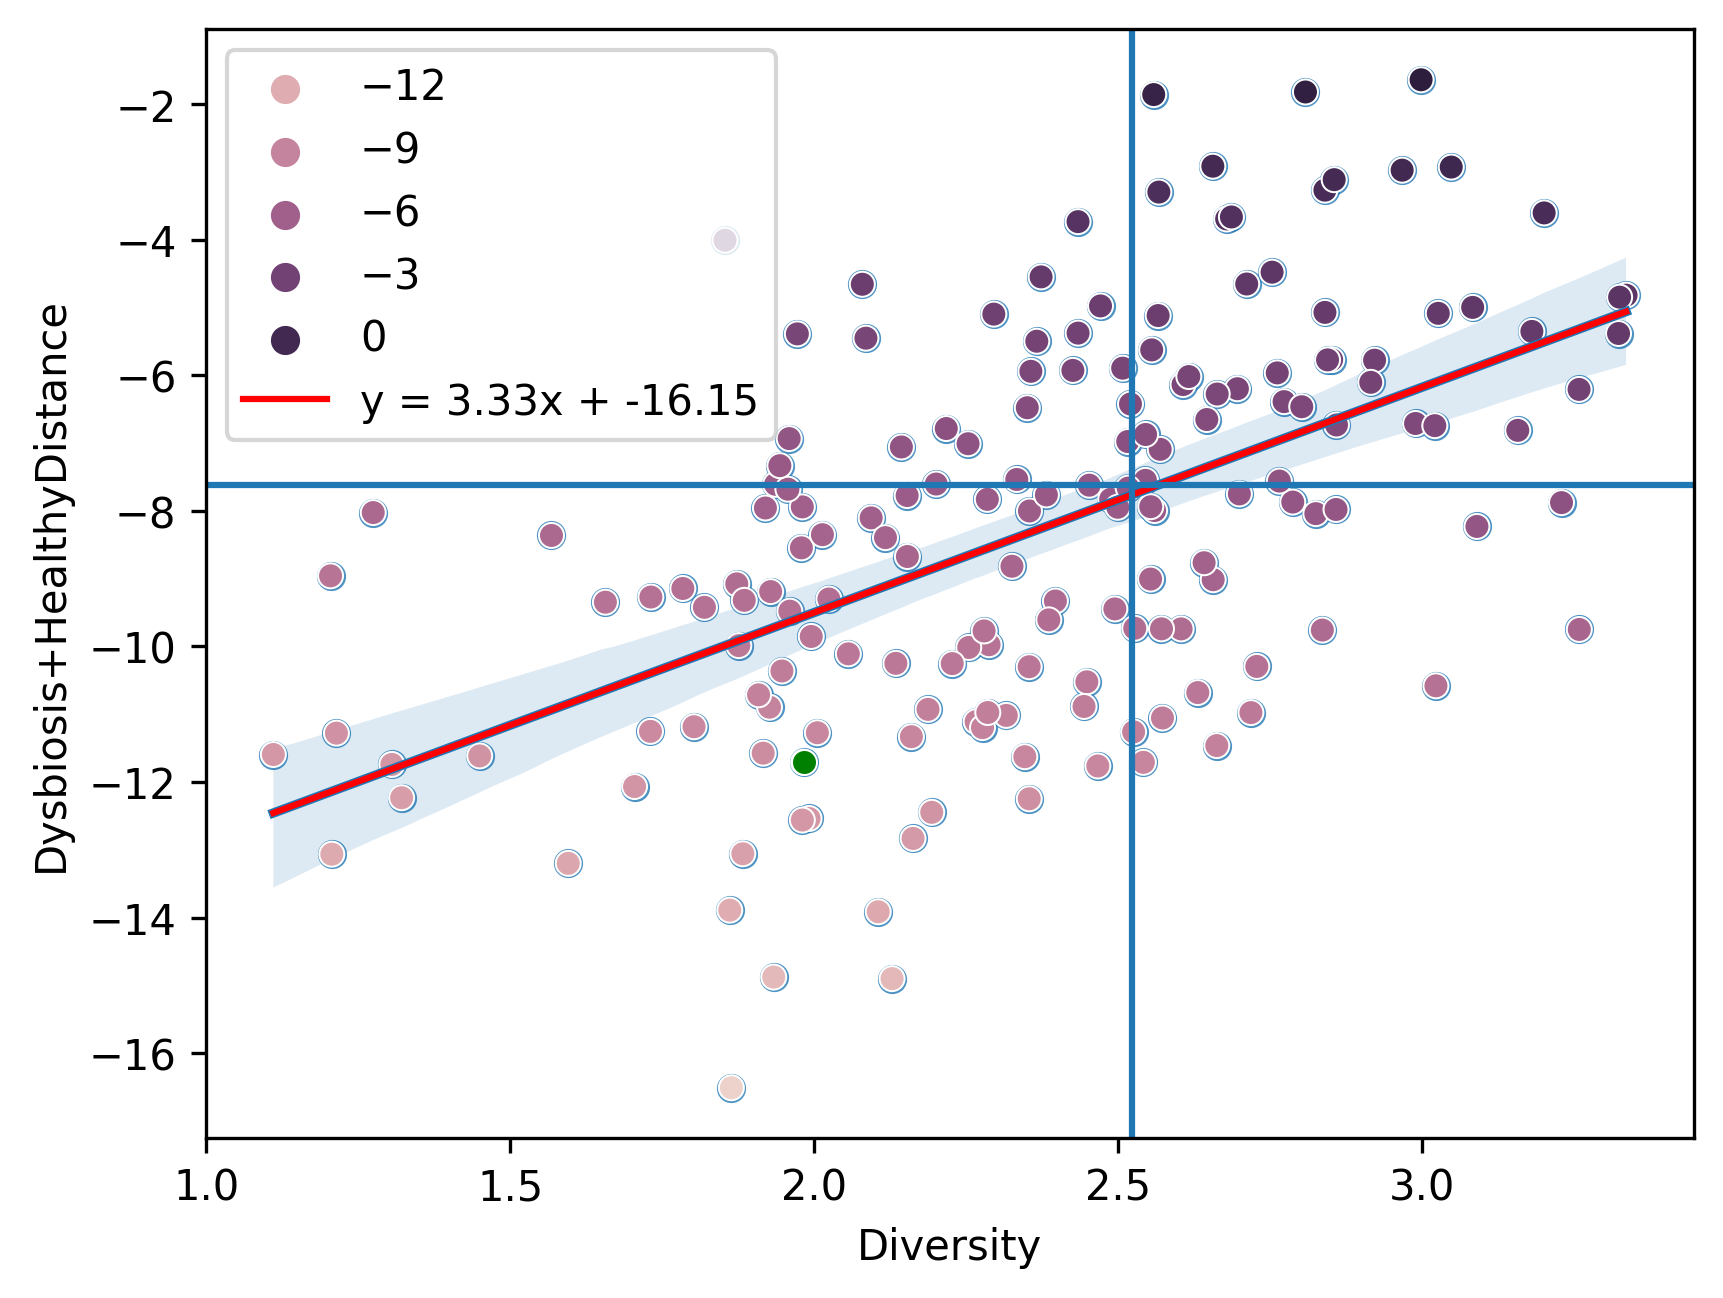
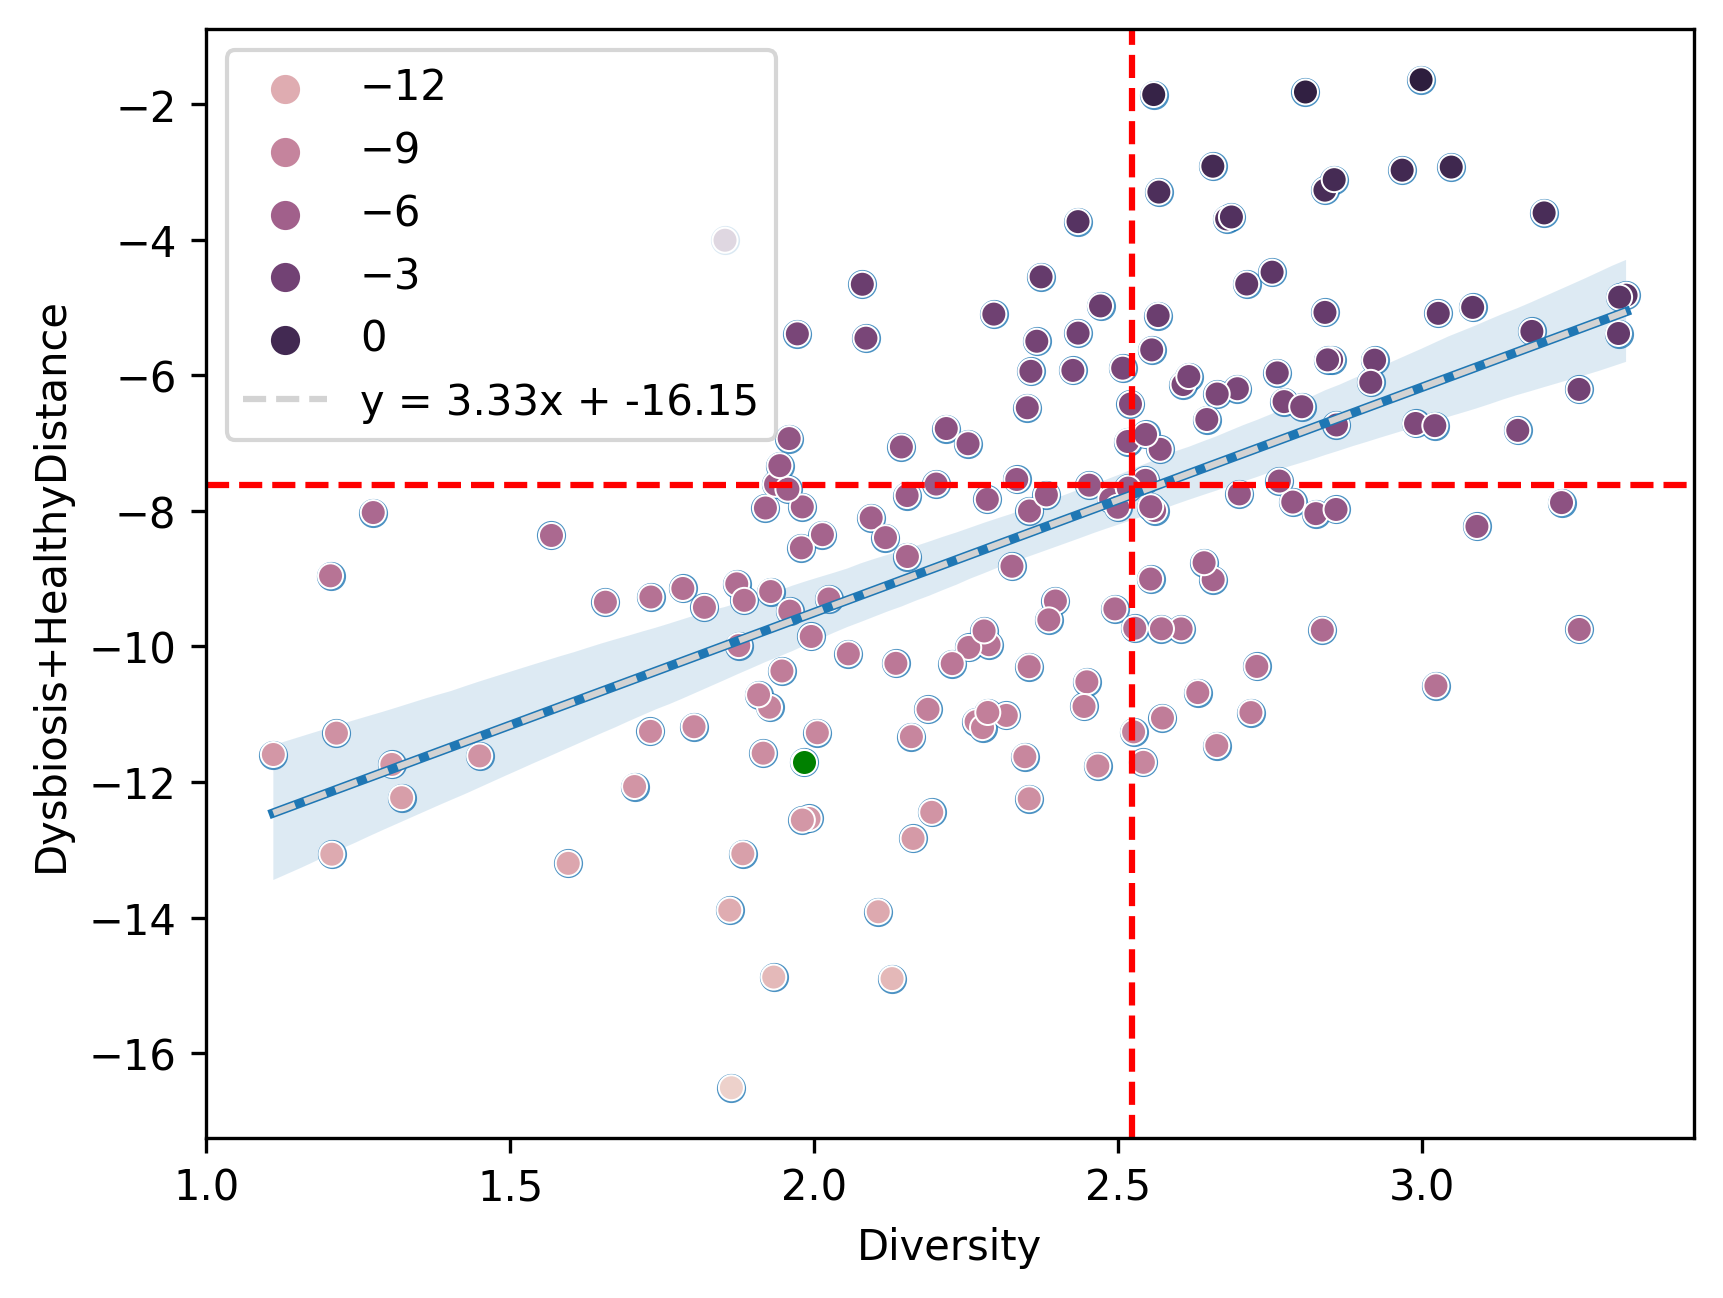
Update the scatter plot - line

diff --git a/comp_percentile_rank_forRPA.py b/comp_percentile_rank_forRPA.py
@@ -427,7 +427,7 @@ class CompAnimalDisease:
             # add new points to the scatter plot
             sns.scatterplot(x=self.df_mrs['Diversity'], y=(self.df_mrs['Dysbiosis'] + self.df_mrs['HealthyDistance']), data=self.df_mrs, color='g')            
             
-            plt.plot(x_vals, y_vals, '-', color='red', label=f'y = {slope:.2f}x + {intercept:.2f}')
+            plt.plot(x_vals, y_vals, '--', color='lightgray', label=f'y = {slope:.2f}x + {intercept:.2f}')
             plt.xlabel('Diversity')
             plt.ylabel('Dysbiosis+HealthyDistance')
             plt.legend()
@@ -440,8 +440,8 @@ class CompAnimalDisease:
                 self.li_x_quartile = list(self.df_mrs_db['Diversity'].quantile([0.6]))
                 self.li_y_quartile = list((self.df_mrs_db['Dysbiosis'] + self.df_mrs_db['HealthyDistance']).quantile([0.6]))
                          
-            plt.axhline(y=self.li_y_quartile[0], xmin=0, xmax=1)    
-            plt.axvline(x=self.li_x_quartile[0], ymin=0, ymax=1)
+            plt.axhline(y=self.li_y_quartile[0], xmin=0, xmax=1, color='red', linestyle='--')    
+            plt.axvline(x=self.li_x_quartile[0], ymin=0, ymax=1, color='red', linestyle='--')
             
             '''
             E_data = self.df_mrs_db[(self.df_mrs_db['Diversity'] >= self.li_x_quartile[0]) & ((self.df_mrs_db['Dysbiosis'] + self.df_mrs_db['HealthyDistance']) >= self.li_y_quartile[0])]
@@ -539,8 +539,8 @@ if __name__ == '__main__':
     #path_exp = 'input/PDmirror_output_dog_1629.csv'
     #path_exp = 'input/PCmirror_output_cat_1520.csv'
     
-    #path_exp = 'input/PD_dog_one_sample.csv'
-    path_exp = 'input/PC_cat_one_sample.csv'
+    path_exp = 'input/PD_dog_one_sample.csv'
+    #path_exp = 'input/PC_cat_one_sample.csv'
     
     companimal = CompAnimalDisease(path_exp)
     companimal.ReadDB()
